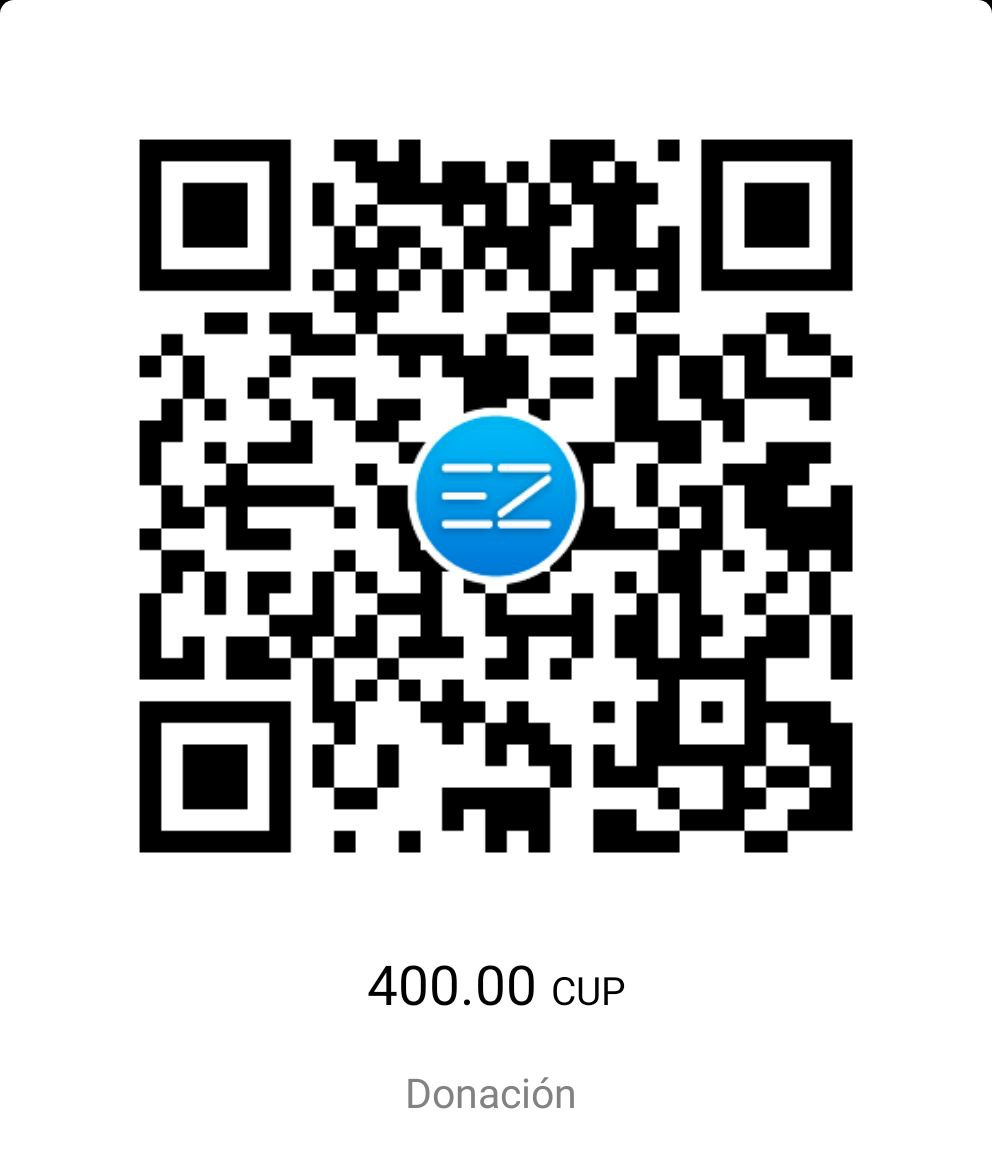
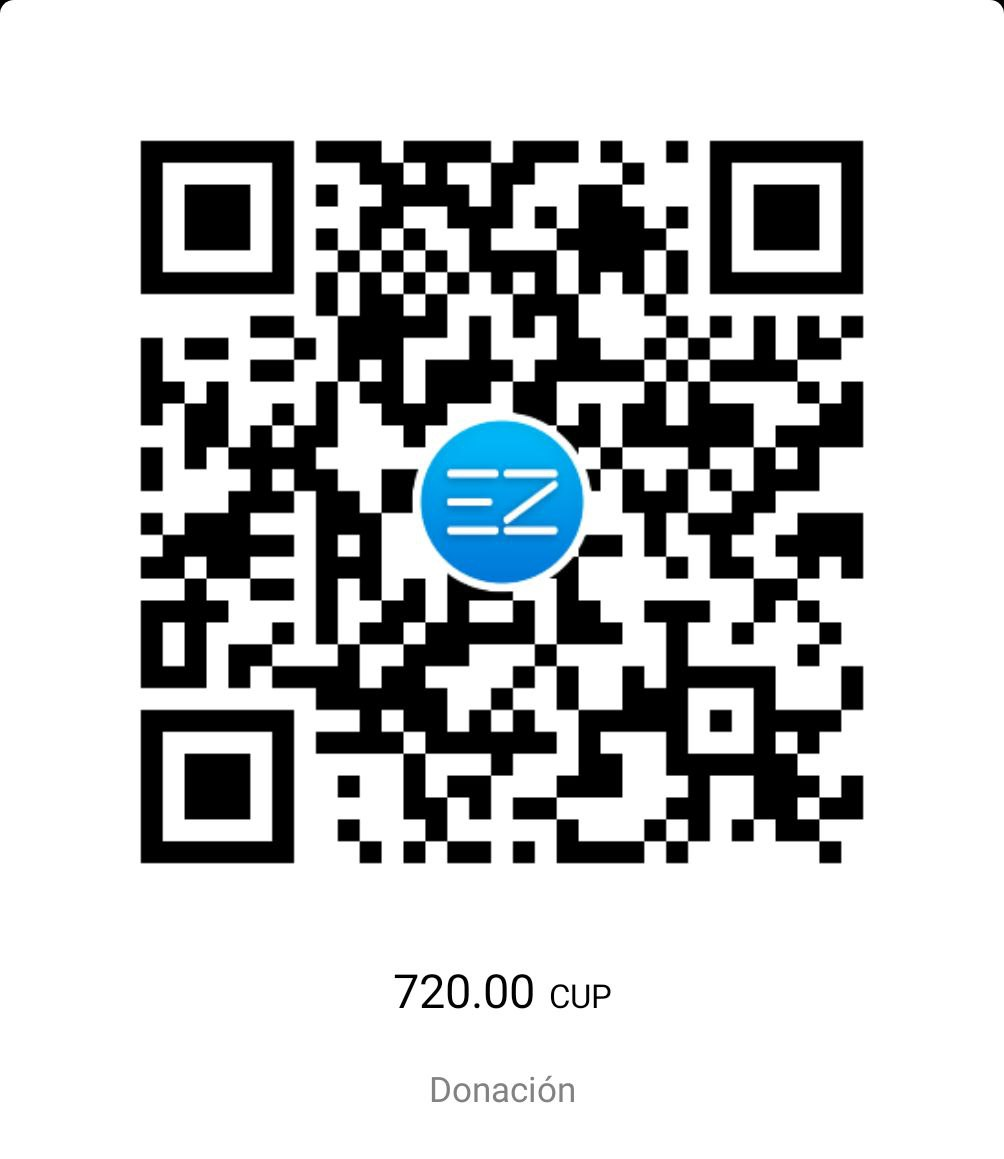
qr-180

Changed region(s): [[0.125, 0.0932, 0.875, 0.7455], [0.375, 0.8076, 0.625, 0.8697], [0.4062, 0.9008, 0.5938, 0.9629]]

diff --git a/src/pages/PagoPage.vue b/src/pages/PagoPage.vue
@@ -40,7 +40,7 @@
           <p class="text-positive">Disponible: {{ cantidadDisponible }}</p>
           <p>Cantidad de Cuentas: {{ listaCorreos.length }}</p>
           <q-separator />
-          <h6>Monto Total: $ {{ listaCorreos.length * 100 }}</h6>
+          <h6>Monto Total: $ {{ listaCorreos.length * 180 }}</h6>
         </div>
         <!-- <div class="q-pa-md q-mx-auto" style="max-width: 330px">
           <q-input
